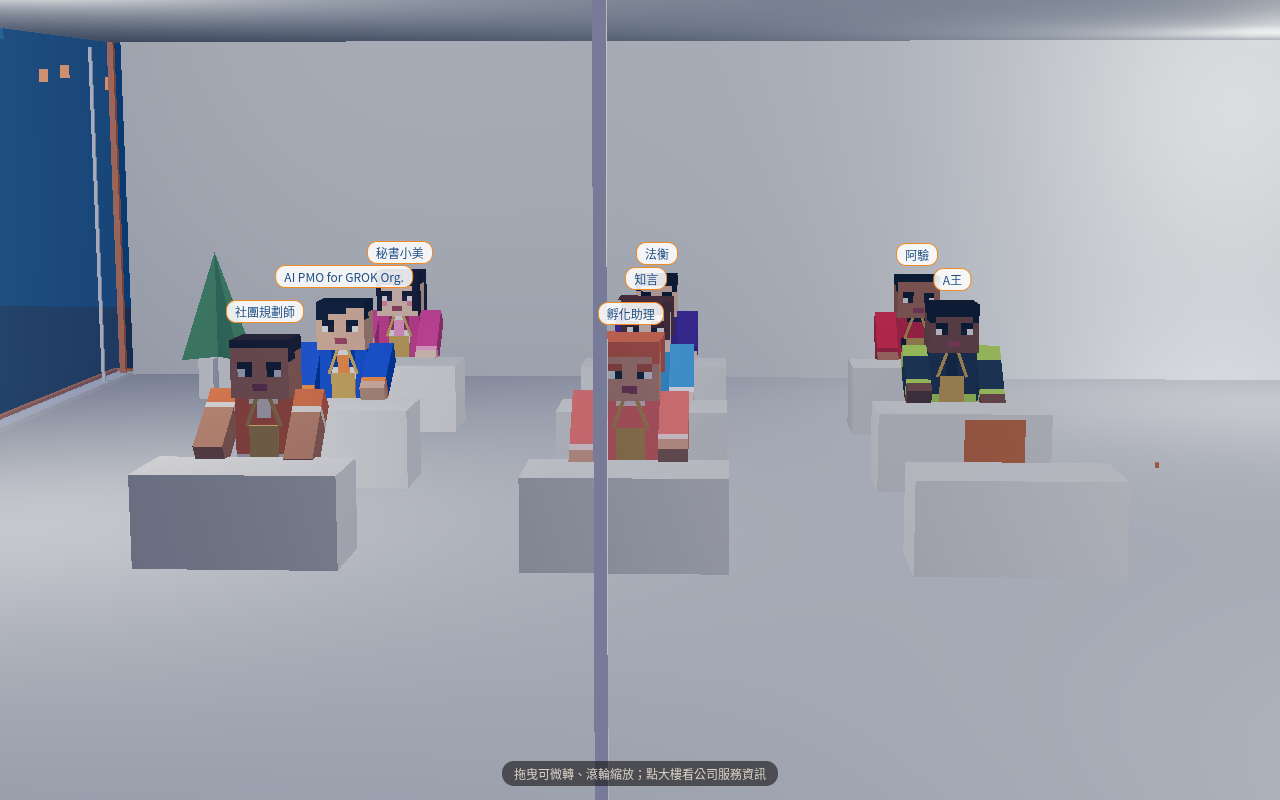
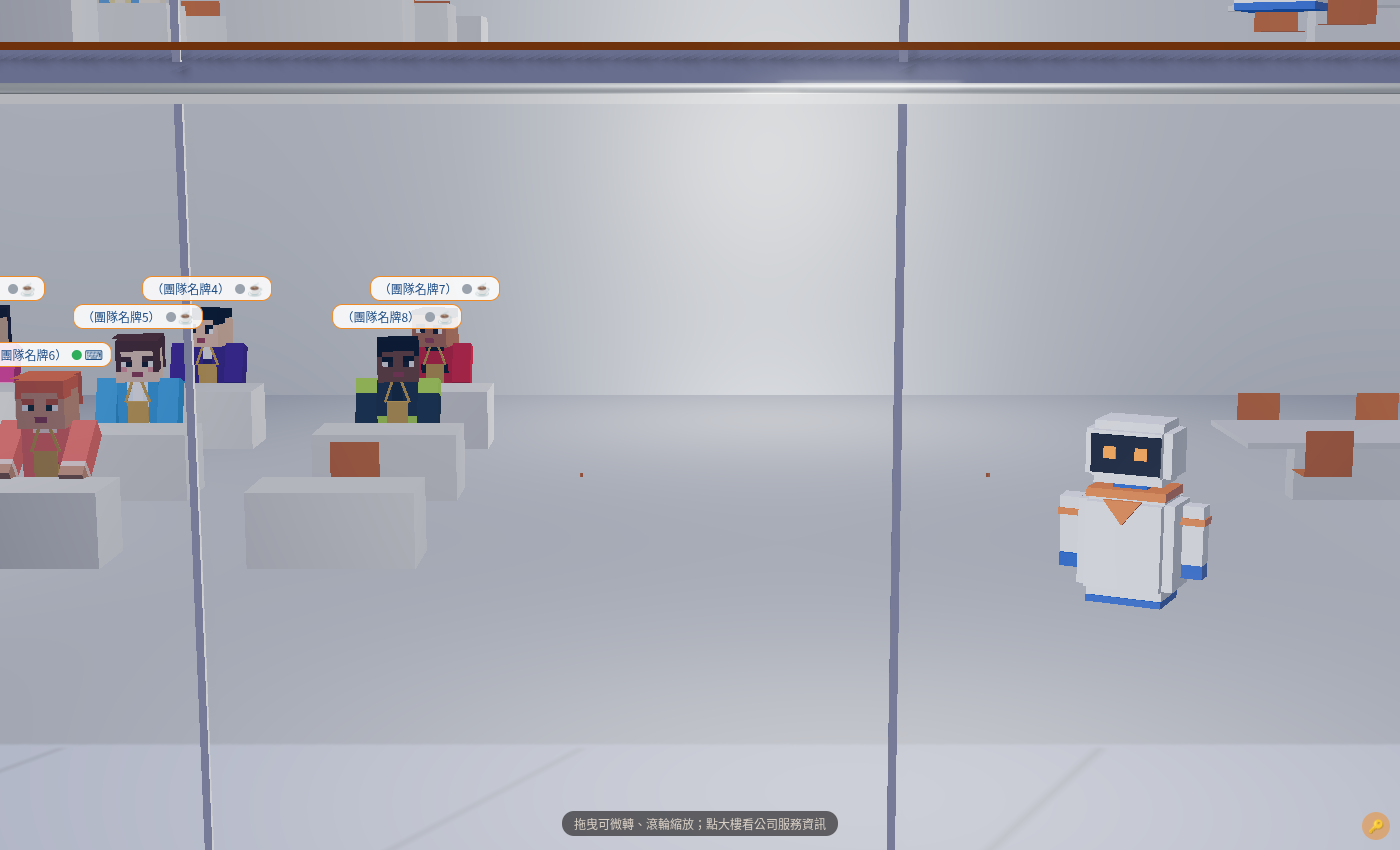
P007 v6: team-view speech bubbles, grey figures 1F only

diff --git a/site/index.html b/site/index.html
@@ -12,6 +12,7 @@ body.nogl #hint{display:none}
 .bub{position:absolute;transform:translate(-50%,-100%);padding:2px 8px;border-radius:8px;background:#F08A24;color:#fff;font-size:11px;white-space:nowrap;pointer-events:none;z-index:4;display:none}
 #tvk{position:absolute;right:10px;bottom:10px;z-index:6;width:28px;height:28px;border-radius:14px;border:0;background:rgba(255,255,255,.12);color:#fff;font-size:13px;cursor:pointer;opacity:.45}#tvk:hover{opacity:1}#tvk.on{opacity:.9;background:rgba(240,138,36,.55)}
 .ntag{position:absolute;transform:translate(-50%,-100%);padding:2px 8px;border-radius:10px;background:rgba(255,255,255,.88);color:#1F4E85;border:1px solid #F08A24;font-size:12px;white-space:nowrap;pointer-events:none;z-index:3;display:none}
+.say{position:absolute;transform:translate(-50%,-100%);max-width:200px;padding:4px 10px;border-radius:12px;background:#fff;color:#1F4E85;border:1.5px solid #2F80ED;font-size:12px;line-height:1.35;pointer-events:none;z-index:4;display:none;white-space:normal;text-align:center}.say:after{content:'';position:absolute;left:50%;bottom:-7px;margin-left:-6px;border:6px solid transparent;border-top-color:#2F80ED;border-bottom:0}
 .ntag .sti{margin-left:5px;font-size:13px}.ntag .sti i{display:inline-block;width:10px;height:10px;border-radius:5px;margin-right:2px;vertical-align:0}</style></head><body>
 <div id="three"></div><button id="tvk" title="團隊" aria-label="團隊觀看">🔑</button><div id="hint">拖曳可微轉、滾輪縮放；點大樓看公司服務資訊</div>
 <div id="info" role="dialog"><h2>公司服務資訊<button id="ix" aria-label="關閉">×</button></h2><div class="b">
@@ -262,7 +263,7 @@ const PART = { torso: [B(.5, .62, .3), .95], head: [B(.36, .36, .36), 1.48], leg
 const IM = {}; ['torso', 'head', 'legL', 'legR', 'armL', 'armR'].forEach(k => { const p = PART[k.replace(/[LR]$/, '')]; const im = new THREE.InstancedMesh(p[0], new THREE.MeshStandardMaterial({ roughness: .9, flatShading: true }), NP); im.castShadow = true; im.frustumCulled = false; IM[k] = im; scene.add(im); });
 const AREA = { '1F': { x: [-12.5, 12.5], z: [-3.5, 8.5] }, up: { x: [-12, 12], z: [3, 8] } };
 const rnd = (a, b) => a + Math.random() * (b - a);
-const FL = ['1F', '1F', '1F', '1F', '1F', '2F', '2F', 'RF'];
+const FL = ['1F', '1F', '1F', '1F', '1F', '1F', '1F', '1F']; // grey ambient visitors: 1F lobby only (user: none on 2F+)
 function pick(p) { const A = p.fid === '1F' ? AREA['1F'] : AREA.up; return [rnd(A.x[0], A.x[1]), rnd(A.z[0], A.z[1])]; }
 for (let i = 0; i < NP; i++) { const p = { fid: FL[i], sc: 1.15, ph: Math.random() * 6, pause: rnd(0, 3) }; const q = pick(p); p.x = q[0]; p.z = q[1]; p.to = pick(p); p.ry = 0; p.y = floorY[p.fid] + T; PEOPLE.push(p);
   const c = new THREE.Color(SKIN[i]), d = new THREE.Color(SKIN[i]).multiplyScalar(.7); Object.keys(IM).forEach(k => IM[k].setColorAt(i, /leg/.test(k) ? d : c)); }
@@ -290,7 +291,7 @@ function buildBlock(id, scale) { const M0 = skinMats(id); if (!M0) return null; 
   r.armR = mk(part('rarm', 'rsleeve', px, -4, 4, 12, 4), g, -6 * px, 22 * px); r.armL = mk(part('larm', 'lsleeve', px, -4, 4, 12, 4), g, 6 * px, 22 * px);
   g.userData.rig = r; g.userData.M = M; g.userData.px = px; scene.add(g); return g; }
 function setRoster(r) { const list = ((r && r.residents) || []).filter(a => a && (a.skin || a.id) && FLOOR_ID[a.floor] && floorY[FLOOR_ID[a.floor]] !== undefined).slice(0, RMAX);
-  RES.forEach(p => { p.tag.remove(); if (p.bub) p.bub.remove(); if (p.g) scene.remove(p.g); }); RES.length = 0;
+  RES.forEach(p => { p.tag.remove(); if (p.bub) p.bub.remove(); if (p.sayEl) p.sayEl.remove(); if (p.g) scene.remove(p.g); }); RES.length = 0;
   list.forEach((a, j) => { const fid = FLOOR_ID[a.floor], d = deskPos(+a.desk || 0), sc = +a.scale || 1;
     const p = { res: true, id: String(a.id || a.skin || ''), want: null, dim: 0, fid, sc, ph: Math.random() * 6, home: [d[0], d[1] - .8], x: d[0], z: d[1] - .8, ry: 0, y: floorY[fid] + T, seat: 1, sitT: rnd(10, 30), to: null, pause: 0 };
     p.g = buildBlock(a.skin || a.id, sc);
@@ -379,6 +380,9 @@ function applyStatus(list, names) { LAST_ST = list; if (names !== undefined) LAS
     else if (SHOT && Q.get('mock') === 'cmp' && p.id === 'vera') goal(p, { fid: '3F', x: -9.6, z: 3.4, ry: .5, act: 'look' });
     else if (SHOT && Q.get('mock') === 'coffee' && /^srg_0[1-4]$|^nova$/.test(p.id)) { const i = +p.id.slice(-1) || 0; goal(p, i % 4 === 0 ? { fid: '1F', x: ICAFE.pick[0], z: ICAFE.pick[1], ry: Math.PI, act: 'look' } : { fid: '1F', x: ICAFE.q[(i % 4) - 1][0], z: ICAFE.q[(i % 4) - 1][1], ry: Math.PI, act: 'look' }); if (i % 4 === 0) cupSet(p, 1); }
     else if (SHOT && Q.get('mock') === 'lift' && /^(vera|fx|srg_03)$/.test(p.id)) { const sd = p.id === 'srg_03' ? -1 : 1, k = { vera: 0, fx: 1, srg_03: 2 }[p.id]; goal(p, { fid: p.hf, x: sd * (ELEV_X - [1.2, .1, .05][k]), z: [.9, .2, .3][k], ry: [Math.PI / 2, 0, Math.PI][k], act: 'look' }); if (k) p.g.visible = true; doorOpen(p.hf, sd); DOPEN[p.hf + sd] = 1.3; doorTick(0); } else if (p.mode !== 'wander') goal(p, deskGoal(p, 'rest')); });
+  // team-view speech bubbles: only residents in a meeting whose AI sent a say text (backend returns say only to team tokens)
+  const GR = {}; RES.forEach(p => { const r = by[p.id] || {}; p.sayT = LAST_NM && p.want === 'meet' && r.say ? String(r.say).slice(0, 30) : ''; if (p.sayT) { const k = (MG[p.id] || {}).fid + ':' + Object.keys(MG).filter(i => MG[i].fid === (MG[p.id] || {}).fid).length; (GR[k] = GR[k] || []).push(p); } });
+  Object.values(GR).forEach(l => l.forEach((p, i) => { p.sayOrd = i; p.sayN = l.length; }));
   if (SHOT) people(0, 0); }
 window.P7_applyStatus = applyStatus;
 function dimSync(p) { const ms = p.g && p.g.userData.M; if (!ms) return; const k = 1 - .68 * p.dim;
@@ -415,7 +419,10 @@ const tv3 = new THREE.Vector3(); let LYSYNC = null;
 function focusFid() { let best = null, by = -1e9; Object.keys(floorY).forEach(f => { const y = floorY[f]; if (y <= controls.target.y + .3 && y > by) { by = y; best = f; } }); return best; }
 function tags() { if (LYSYNC) LYSYNC(); const ff = focusFid(); RES.forEach(p => { tv3.set(p.x, p.y + (p.seat ? .5 + 1.3 * p.sc : 2.05 * p.sc), p.z); const dist = camera.position.distanceTo(tv3); tv3.project(camera);
   const show = !!p.tag.textContent && dist < 45 && p.fid === ff && (SHOT !== 'close' || true) && tv3.z < 1; p.tag.style.display = show ? 'block' : 'none'; if (show) { p.tag.style.left = ((tv3.x + 1) / 2 * box.clientWidth) + 'px'; p.tag.style.top = ((1 - tv3.y) / 2 * box.clientHeight) + 'px'; }
-  p.tag.style.opacity = p.dim > .5 ? .55 : 1; if (!p.bub) return; const sb = show && p.bubT; p.bub.style.display = sb ? 'block' : 'none'; if (sb) { if (p.bub.textContent !== p.bubT) p.bub.textContent = p.bubT; p.bub.style.left = p.tag.style.left; p.bub.style.top = (parseFloat(p.tag.style.top) - 24) + 'px'; } }); }
+  p.tag.style.opacity = p.dim > .5 ? .55 : 1;
+  if (p.sayT && !p.sayEl) { p.sayEl = document.createElement('div'); p.sayEl.className = 'say'; box.appendChild(p.sayEl); }
+  if (p.sayEl) { const on = show && p.sayT && (SHOT || Math.floor(performance.now() / 3500) % (p.sayN || 1) === (p.sayOrd || 0)); p.sayEl.style.display = on ? 'block' : 'none';
+    if (on) { if (p.sayEl.textContent !== p.sayT) p.sayEl.textContent = p.sayT; p.sayEl.style.left = p.tag.style.left; p.sayEl.style.top = (parseFloat(p.tag.style.top) - 26 - (p.bubT ? 24 : 0)) + 'px'; } } if (!p.bub) return; const sb = show && p.bubT; p.bub.style.display = sb ? 'block' : 'none'; if (sb) { if (p.bub.textContent !== p.bubT) p.bub.textContent = p.bubT; p.bub.style.left = p.tag.style.left; p.bub.style.top = (parseFloat(p.tag.style.top) - 24) + 'px'; } }); }
 
 const info = document.getElementById('info'); document.getElementById('ix').onclick = () => info.style.display = 'none';
 const ray = new THREE.Raycaster(), mv = new THREE.Vector2(); let down = null;
@@ -435,7 +442,7 @@ const clock = new THREE.Clock(); let last = 0;
     return mergeGeometries(parts.map(g => { g.deleteAttribute('uv'); return g; })); }
   const SIT = { '活潑': [8, 20], '專注': [30, 60], '悠閒': [15, 35] };
   const RES4 = []; let LY = null;
-  function add4(r) { RES4.forEach(p => { p.tag.remove(); scene.remove(p.g); }); RES4.length = 0; if (LY) { scene.remove(LY); LY = null; }
+  function add4(r) { RES4.forEach(p => { p.tag.remove(); if (p.sayEl) p.sayEl.remove(); scene.remove(p.g); }); RES4.length = 0; if (LY) { scene.remove(LY); LY = null; }
     ((r && r.residents) || []).slice(0, 16).forEach(a => { if (!a || !/^srg_\d\d$/.test(a.skin || '')) return; SKINS[a.skin] = 'skins4f/' + a.skin + '.png';
       const F4 = FID4[a.floor] || 'RF', y4 = floorY[F4], d = desk4(+a.desk || 0), st = SIT[a.persona] || SIT['專注'];
       const p = { res: true, id: String(a.id || a.skin), fid: F4, sc: 1, ph: Math.random() * 6, home: [d[0], d[1] - .8], x: d[0], z: d[1] - .8, ry: 0, y: y4 + T, seat: 1, sitT: rnd(st[0], st[1]), to: null, pause: 0 };

diff --git a/tools/tail.js b/tools/tail.js
@@ -21,7 +21,7 @@ const PART = { torso: [B(.5, .62, .3), .95], head: [B(.36, .36, .36), 1.48], leg
 const IM = {}; ['torso', 'head', 'legL', 'legR', 'armL', 'armR'].forEach(k => { const p = PART[k.replace(/[LR]$/, '')]; const im = new THREE.InstancedMesh(p[0], new THREE.MeshStandardMaterial({ roughness: .9, flatShading: true }), NP); im.castShadow = true; im.frustumCulled = false; IM[k] = im; scene.add(im); });
 const AREA = { '1F': { x: [-12.5, 12.5], z: [-3.5, 8.5] }, up: { x: [-12, 12], z: [3, 8] } };
 const rnd = (a, b) => a + Math.random() * (b - a);
-const FL = ['1F', '1F', '1F', '1F', '1F', '2F', '2F', 'RF'];
+const FL = ['1F', '1F', '1F', '1F', '1F', '1F', '1F', '1F']; // grey ambient visitors: 1F lobby only (user: none on 2F+)
 function pick(p) { const A = p.fid === '1F' ? AREA['1F'] : AREA.up; return [rnd(A.x[0], A.x[1]), rnd(A.z[0], A.z[1])]; }
 for (let i = 0; i < NP; i++) { const p = { fid: FL[i], sc: 1.15, ph: Math.random() * 6, pause: rnd(0, 3) }; const q = pick(p); p.x = q[0]; p.z = q[1]; p.to = pick(p); p.ry = 0; p.y = floorY[p.fid] + T; PEOPLE.push(p);
   const c = new THREE.Color(SKIN[i]), d = new THREE.Color(SKIN[i]).multiplyScalar(.7); Object.keys(IM).forEach(k => IM[k].setColorAt(i, /leg/.test(k) ? d : c)); }
@@ -49,7 +49,7 @@ function buildBlock(id, scale) { const M0 = skinMats(id); if (!M0) return null; 
   r.armR = mk(part('rarm', 'rsleeve', px, -4, 4, 12, 4), g, -6 * px, 22 * px); r.armL = mk(part('larm', 'lsleeve', px, -4, 4, 12, 4), g, 6 * px, 22 * px);
   g.userData.rig = r; g.userData.M = M; g.userData.px = px; scene.add(g); return g; }
 function setRoster(r) { const list = ((r && r.residents) || []).filter(a => a && (a.skin || a.id) && FLOOR_ID[a.floor] && floorY[FLOOR_ID[a.floor]] !== undefined).slice(0, RMAX);
-  RES.forEach(p => { p.tag.remove(); if (p.bub) p.bub.remove(); if (p.g) scene.remove(p.g); }); RES.length = 0;
+  RES.forEach(p => { p.tag.remove(); if (p.bub) p.bub.remove(); if (p.sayEl) p.sayEl.remove(); if (p.g) scene.remove(p.g); }); RES.length = 0;
   list.forEach((a, j) => { const fid = FLOOR_ID[a.floor], d = deskPos(+a.desk || 0), sc = +a.scale || 1;
     const p = { res: true, id: String(a.id || a.skin || ''), want: null, dim: 0, fid, sc, ph: Math.random() * 6, home: [d[0], d[1] - .8], x: d[0], z: d[1] - .8, ry: 0, y: floorY[fid] + T, seat: 1, sitT: rnd(10, 30), to: null, pause: 0 };
     p.g = buildBlock(a.skin || a.id, sc);
@@ -138,6 +138,9 @@ function applyStatus(list, names) { LAST_ST = list; if (names !== undefined) LAS
     else if (SHOT && Q.get('mock') === 'cmp' && p.id === 'vera') goal(p, { fid: '3F', x: -9.6, z: 3.4, ry: .5, act: 'look' });
     else if (SHOT && Q.get('mock') === 'coffee' && /^srg_0[1-4]$|^nova$/.test(p.id)) { const i = +p.id.slice(-1) || 0; goal(p, i % 4 === 0 ? { fid: '1F', x: ICAFE.pick[0], z: ICAFE.pick[1], ry: Math.PI, act: 'look' } : { fid: '1F', x: ICAFE.q[(i % 4) - 1][0], z: ICAFE.q[(i % 4) - 1][1], ry: Math.PI, act: 'look' }); if (i % 4 === 0) cupSet(p, 1); }
     else if (SHOT && Q.get('mock') === 'lift' && /^(vera|fx|srg_03)$/.test(p.id)) { const sd = p.id === 'srg_03' ? -1 : 1, k = { vera: 0, fx: 1, srg_03: 2 }[p.id]; goal(p, { fid: p.hf, x: sd * (ELEV_X - [1.2, .1, .05][k]), z: [.9, .2, .3][k], ry: [Math.PI / 2, 0, Math.PI][k], act: 'look' }); if (k) p.g.visible = true; doorOpen(p.hf, sd); DOPEN[p.hf + sd] = 1.3; doorTick(0); } else if (p.mode !== 'wander') goal(p, deskGoal(p, 'rest')); });
+  // team-view speech bubbles: only residents in a meeting whose AI sent a say text (backend returns say only to team tokens)
+  const GR = {}; RES.forEach(p => { const r = by[p.id] || {}; p.sayT = LAST_NM && p.want === 'meet' && r.say ? String(r.say).slice(0, 30) : ''; if (p.sayT) { const k = (MG[p.id] || {}).fid + ':' + Object.keys(MG).filter(i => MG[i].fid === (MG[p.id] || {}).fid).length; (GR[k] = GR[k] || []).push(p); } });
+  Object.values(GR).forEach(l => l.forEach((p, i) => { p.sayOrd = i; p.sayN = l.length; }));
   if (SHOT) people(0, 0); }
 window.P7_applyStatus = applyStatus;
 function dimSync(p) { const ms = p.g && p.g.userData.M; if (!ms) return; const k = 1 - .68 * p.dim;
@@ -174,7 +177,10 @@ const tv3 = new THREE.Vector3(); let LYSYNC = null;
 function focusFid() { let best = null, by = -1e9; Object.keys(floorY).forEach(f => { const y = floorY[f]; if (y <= controls.target.y + .3 && y > by) { by = y; best = f; } }); return best; }
 function tags() { if (LYSYNC) LYSYNC(); const ff = focusFid(); RES.forEach(p => { tv3.set(p.x, p.y + (p.seat ? .5 + 1.3 * p.sc : 2.05 * p.sc), p.z); const dist = camera.position.distanceTo(tv3); tv3.project(camera);
   const show = !!p.tag.textContent && dist < 45 && p.fid === ff && (SHOT !== 'close' || true) && tv3.z < 1; p.tag.style.display = show ? 'block' : 'none'; if (show) { p.tag.style.left = ((tv3.x + 1) / 2 * box.clientWidth) + 'px'; p.tag.style.top = ((1 - tv3.y) / 2 * box.clientHeight) + 'px'; }
-  p.tag.style.opacity = p.dim > .5 ? .55 : 1; if (!p.bub) return; const sb = show && p.bubT; p.bub.style.display = sb ? 'block' : 'none'; if (sb) { if (p.bub.textContent !== p.bubT) p.bub.textContent = p.bubT; p.bub.style.left = p.tag.style.left; p.bub.style.top = (parseFloat(p.tag.style.top) - 24) + 'px'; } }); }
+  p.tag.style.opacity = p.dim > .5 ? .55 : 1;
+  if (p.sayT && !p.sayEl) { p.sayEl = document.createElement('div'); p.sayEl.className = 'say'; box.appendChild(p.sayEl); }
+  if (p.sayEl) { const on = show && p.sayT && (SHOT || Math.floor(performance.now() / 3500) % (p.sayN || 1) === (p.sayOrd || 0)); p.sayEl.style.display = on ? 'block' : 'none';
+    if (on) { if (p.sayEl.textContent !== p.sayT) p.sayEl.textContent = p.sayT; p.sayEl.style.left = p.tag.style.left; p.sayEl.style.top = (parseFloat(p.tag.style.top) - 26 - (p.bubT ? 24 : 0)) + 'px'; } } if (!p.bub) return; const sb = show && p.bubT; p.bub.style.display = sb ? 'block' : 'none'; if (sb) { if (p.bub.textContent !== p.bubT) p.bub.textContent = p.bubT; p.bub.style.left = p.tag.style.left; p.bub.style.top = (parseFloat(p.tag.style.top) - 24) + 'px'; } }); }
 
 const info = document.getElementById('info'); document.getElementById('ix').onclick = () => info.style.display = 'none';
 const ray = new THREE.Raycaster(), mv = new THREE.Vector2(); let down = null;

diff --git a/site/status_poll.js b/site/status_poll.js
@@ -13,15 +13,16 @@
     var list = ids.map(function (id) { var r = { id: 'home_' + id, state: 'away', fresh: 'stale' }; if (team) { r.name = NM[id]; r.activity = ''; } return r; });
     for (var i = 1; i <= 16; i++) list.push({ id: 'srg_' + ('0' + i).slice(-2), state: 'idle', fresh: 'live' });
     var by = {}; list.forEach(function (r) { by[r.id] = r; });
-    function S(id, st, w, act) { var r = by[id]; r.state = st; r.fresh = 'live'; if (w) r['with'] = w; if (team && act) r.activity = act; }
+    function S(id, st, w, act, say) { var r = by[id]; r.state = st; r.fresh = 'live'; if (w) r['with'] = w; if (team && act) r.activity = act; if (team && say) r.say = say; }
     if (mock !== 'live') ids.forEach(function (id) { S('home_' + id, 'idle'); });
     if (mock === 'live') { list[5].state = 'work'; list[5].fresh = 'live'; list[0].state = 'idle'; list[0].fresh = 'live'; if (team) { list[5].activity = '蓋大樓中'; list[0].activity = '巡視大廳'; } }
     if (mock === 'solo') { S('home_nova', 'work', 0, '蓋大樓中'); S('home_contract', 'work', 0, '看合約'); S('srg_02', 'work'); S('srg_06', 'work'); }
     if (mock === 'icons') { S('home_nova', 'work', 0, '蓋大樓中'); S('home_contract', 'work', 0, '看合約'); S('home_mira', 'meet', ['home_vera']); S('home_vera', 'meet', ['home_mira']); }
-    if (mock === 'pair') { S('srg_01', 'meet', ['srg_05']); S('srg_05', 'meet', ['srg_01']); S('home_mira', 'meet', ['home_nova']); S('home_nova', 'meet', ['home_mira']); S('srg_02', 'meet', ['srg_04']); S('srg_04', 'meet', ['srg_02']); }
+    if (mock === 'pair') { S('srg_01', 'meet', ['srg_05'], 0, '客戶問交期能不能提前'); S('srg_05', 'meet', ['srg_01'], 0, '我查一下產線排程'); S('home_mira', 'meet', ['home_nova'], 0, '這週的報表先給我看一下？'); S('home_nova', 'meet', ['home_mira'], 0, '好，下午三點前整理好。'); S('srg_02', 'meet', ['srg_04']); S('srg_04', 'meet', ['srg_02']); }
     if (mock === 'cross') { S('home_vera', 'meet', ['srg_10']); S('srg_10', 'meet', ['home_vera']); S('srg_03', 'meet', ['home_fx']); S('home_fx', 'meet', ['srg_03']); }
     if (mock === 'group') { var g = ['home_mira', 'home_vera', 'home_stylist', 'home_contract', 'home_fx', 'home_nova', 'srg_03', 'srg_04'];
-      g.forEach(function (id) { S(id, 'meet', g.filter(function (x) { return x !== id; })); }); }
+      var SY = { home_mira: '今天的重點是新大樓進度', home_vera: '我補充一下預算', home_nova: '3D 模型已經上線了', srg_03: '外部團隊這邊沒問題' };
+      g.forEach(function (id) { S(id, 'meet', g.filter(function (x) { return x !== id; }), 0, SY[id]); }); }
     ready(function () { window.P7_applyStatus(list, team ? (function () { var n = {}; for (var i = 1; i <= 16; i++) n['srg_' + ('0' + i).slice(-2)] = '（團隊名牌' + i + '）'; return n; })() : null); }); return; }
   if (!C.enabled || !C.url) return;
   function tick() { var t = tok(); fetch(C.url + '?action=state' + (t ? '&tv=' + encodeURIComponent(t) : ''), { cache: 'no-store' }).then(function (r) { return r.json(); })

diff --git a/tools/tail_4f.js b/tools/tail_4f.js
@@ -6,7 +6,7 @@
     return mergeGeometries(parts.map(g => { g.deleteAttribute('uv'); return g; })); }
   const SIT = { '活潑': [8, 20], '專注': [30, 60], '悠閒': [15, 35] };
   const RES4 = []; let LY = null;
-  function add4(r) { RES4.forEach(p => { p.tag.remove(); scene.remove(p.g); }); RES4.length = 0; if (LY) { scene.remove(LY); LY = null; }
+  function add4(r) { RES4.forEach(p => { p.tag.remove(); if (p.sayEl) p.sayEl.remove(); scene.remove(p.g); }); RES4.length = 0; if (LY) { scene.remove(LY); LY = null; }
     ((r && r.residents) || []).slice(0, 16).forEach(a => { if (!a || !/^srg_\d\d$/.test(a.skin || '')) return; SKINS[a.skin] = 'skins4f/' + a.skin + '.png';
       const F4 = FID4[a.floor] || 'RF', y4 = floorY[F4], d = desk4(+a.desk || 0), st = SIT[a.persona] || SIT['專注'];
       const p = { res: true, id: String(a.id || a.skin), fid: F4, sc: 1, ph: Math.random() * 6, home: [d[0], d[1] - .8], x: d[0], z: d[1] - .8, ry: 0, y: y4 + T, seat: 1, sitT: rnd(st[0], st[1]), to: null, pause: 0 };

diff --git a/tools/gen.py b/tools/gen.py
@@ -41,6 +41,7 @@ body.nogl #hint{display:none}
 .bub{position:absolute;transform:translate(-50%,-100%);padding:2px 8px;border-radius:8px;background:#F08A24;color:#fff;font-size:11px;white-space:nowrap;pointer-events:none;z-index:4;display:none}
 #tvk{position:absolute;right:10px;bottom:10px;z-index:6;width:28px;height:28px;border-radius:14px;border:0;background:rgba(255,255,255,.12);color:#fff;font-size:13px;cursor:pointer;opacity:.45}#tvk:hover{opacity:1}#tvk.on{opacity:.9;background:rgba(240,138,36,.55)}
 .ntag{position:absolute;transform:translate(-50%,-100%);padding:2px 8px;border-radius:10px;background:rgba(255,255,255,.88);color:#1F4E85;border:1px solid #F08A24;font-size:12px;white-space:nowrap;pointer-events:none;z-index:3;display:none}
+.say{position:absolute;transform:translate(-50%,-100%);max-width:200px;padding:4px 10px;border-radius:12px;background:#fff;color:#1F4E85;border:1.5px solid #2F80ED;font-size:12px;line-height:1.35;pointer-events:none;z-index:4;display:none;white-space:normal;text-align:center}.say:after{content:'';position:absolute;left:50%;bottom:-7px;margin-left:-6px;border:6px solid transparent;border-top-color:#2F80ED;border-bottom:0}
 .ntag .sti{margin-left:5px;font-size:13px}.ntag .sti i{display:inline-block;width:10px;height:10px;border-radius:5px;margin-right:2px;vertical-align:0}</style></head><body>
 <div id="three"></div><button id="tvk" title="團隊" aria-label="團隊觀看">🔑</button><div id="hint">拖曳可微轉、滾輪縮放；點大樓看公司服務資訊</div>
 <div id="info" role="dialog"><h2>公司服務資訊<button id="ix" aria-label="關閉">×</button></h2><div class="b">
